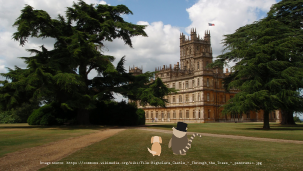
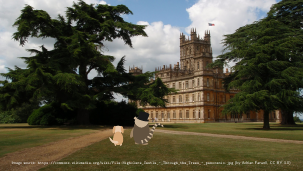
Abbey: changed motion

Changed region(s): [[0.3564, 0.6433, 0.6535, 0.9064], [0.0297, 0.9357, 0.9802, 0.9649]]

diff --git a/samcarter/TikZlingsAbbey/TikZlingsAbbey.tex b/samcarter/TikZlingsAbbey/TikZlingsAbbey.tex
@@ -1,6 +1,7 @@
 \documentclass[aspectratio=169]{beamer}
 
 \usepackage{tikzlings}
+\usetikzlibrary{fpu}
 
 \setbeamertemplate{navigation symbols}{}
 \setbeamertemplate{background canvas}{\includegraphics[width=\paperwidth]{Highclere_Castle_-_Through_the_Trees_-_panoramio}}
@@ -12,31 +13,24 @@
 
 \begin{document}
 
+\foreach \macro [remember=\x as \lastx (initially 2.5),remember=\y as \lasty (initially -7.3)] in {1,...,400}{
+
+\pgfmathsetmacro{\scale}{1-0.002*\macro}
+\pgfmathsetmacro{\x}{\lastx+0.020*\scale}
+\pgfmathsetmacro{\y}{\lasty+0.017*\scale}
+
 \begin{frame}
   \begin{tikzpicture}[remember picture, overlay]
-
-    \begin{scope}[
-      xshift=(1200.0+\thepage)*0.005cm,
-      yshift=(-700.0+\thepage)*0.01cm,
-      scale=1-0.002*\thepage
-    ]
-      \ifnum \intmodnn{\thepage}{20} > 10
-        \dog[back,tailpos=left]
-      \else
-        \dog[back,tailpos=right]
-      \fi
-      \ifnum \intmodnn{\thepage}{20} > 10
-        \coati[tophat,xshift=2.5cm,back,scale=1.5,leftstep]
-      \else
-        \coati[tophat,xshift=2.5cm,back,scale=1.5,rightstep]
-      \fi
-    \end{scope}
+    \ifnum \intmodnn{\thepage}{20} > 10
+      \node[anchor=south] at (\x,\y) {\includegraphics[scale=\scale,page=1]{lord_and_dog}};
+    \else
+      \node[anchor=south] at (\x,\y) {\includegraphics[scale=\scale,page=2]{lord_and_dog}};
+    \fi
 
     % credit for background image
     \node[white,text width=\paperwidth,font=\tiny,align=center] at ([yshift=0.35cm]current page.south) {Image source: \url{https://commons.wikimedia.org/wiki/File:Highclere_Castle_-_Through_the_Trees_-_panoramio.jpg} (by Adrian Farwell, CC BY 3.0)};
-
   \end{tikzpicture}
-  \pause[400]
 \end{frame}
+}
 
 \end{document}

diff --git a/samcarter/TikZlingsAbbey/include/lord_and_dog.tex b/samcarter/TikZlingsAbbey/include/lord_and_dog.tex
@@ -1,0 +1,17 @@
+\documentclass[tikz,border=2pt]{standalone}
+
+\usepackage{tikzlings}
+
+\begin{document}
+\begin{tikzpicture}
+  \path (-1,0) rectangle (1,1);
+  \dog[back,tailpos=left]
+  \coati[tophat,xshift=2.5cm,back,scale=1.5,leftstep]
+\end{tikzpicture}
+\begin{tikzpicture}
+  \path (-1,0) rectangle (1,1);
+  \dog[back,tailpos=right]
+  \coati[tophat,xshift=2.5cm,back,scale=1.5,rightstep]
+\end{tikzpicture}
+\end{document}
+
